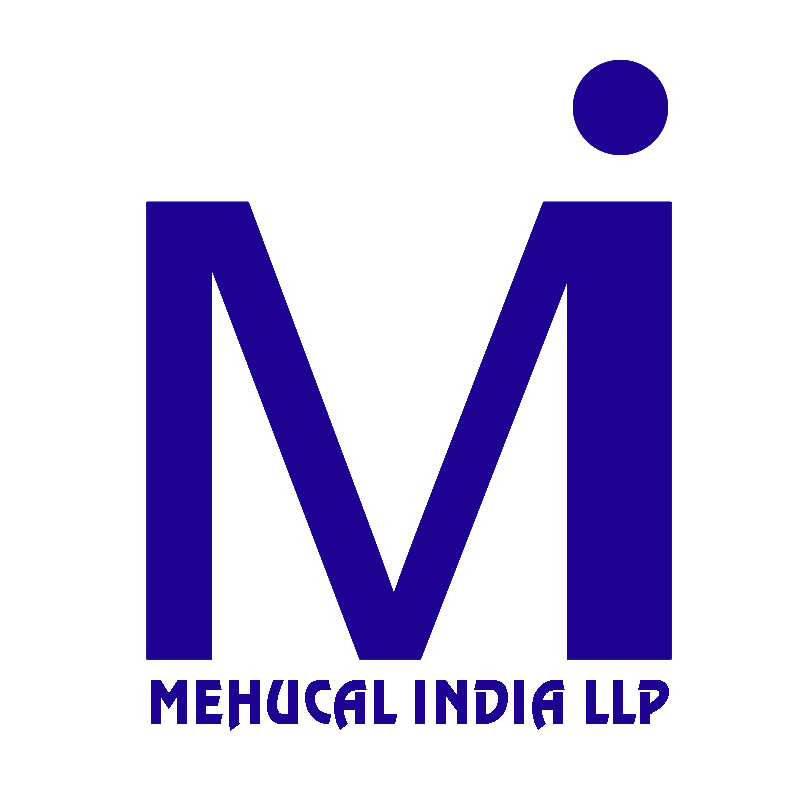
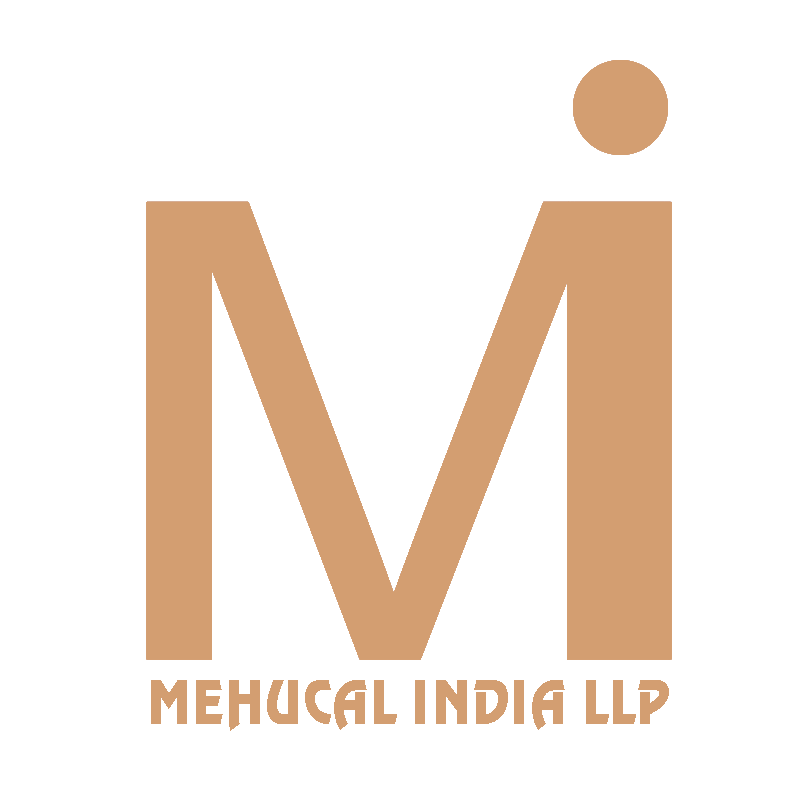
changed styling

Changed region(s): [[0.183, 0.244, 0.8539, 0.9454], [0.7014, 0.061, 0.8539, 0.2135]]

diff --git a/src/components/Contact/Contact.css b/src/components/Contact/Contact.css
@@ -8,13 +8,13 @@
 }
 
 .contact-col {
-    color: black;
+    color: #4e3426;
     flex: 1; /* Ensuring both columns take up equal space */
     max-width: 45%; /* Ensuring they don't exceed half the container */
 }
 
 .contact-col h3 {
-    color: #a28c21;
+    color: #4e3426;
     font-weight: 500;
     font-size: 25px;
     display: flex;
@@ -56,9 +56,9 @@
 .contact form input, .contact form textarea {
     display: block;
     width: 100%;
-    background: #a28c21; /* Changing background color for better readability */
+    background: #ff770019; /* Changing background color for better readability */
     padding: 15px;
-    border: 1px solid #ccc; /* Adding border for better visibility */
+    border: 1px solid #4e3426; /* Adding border for better visibility */
     outline: none;
     margin-bottom: 15px; /* Reducing margin for better spacing */
     margin-top: 5px;
@@ -67,8 +67,8 @@
 }
 
 .contact form button {
-    background: #a28c21;
-    color: white;
+    background: #4e3426;
+    color: 4e3426;
     padding: 15px;
     border: none;
     cursor: pointer;
@@ -77,14 +77,14 @@
 }
 
 .contact form button:hover {
-    background: #a28c21;
+    background: #4e3426;
 }
 
 .contact-col span {
     display: block;
     margin: 15px 0;
     font-weight: bold;
-    color: green;
+    color: 4e3426;
 }
 
 @media screen and (max-width: 768px) {

diff --git a/src/App.jsx b/src/App.jsx
@@ -9,8 +9,6 @@ import Hero from './components/Hero/Hero';
 import Navbar from './components/Navbar/Navbar';
 import Products from './components/Products/Products';
 import Title from './components/Title/Title';
-import Cards from './components/Cards/Cards';
-import cardsData from '../src/data/cards';
 
 const App = () => {
   return (
@@ -22,16 +20,10 @@ const App = () => {
       <Title subTitle='Our Products' title='Feel free to reach us' />
       <span><br/><br/></span>
       <Products />
-      {cardsData.map((card, index) => (
-        <Cards
-          key={index}
-          image={card.image}
-          title={card.title}
-        />
-      ))}
+      
       <Facility />
       <div className=''>
-        <Title subTitle='Our Clients' title='add one small line' />
+        <Title subTitle='Our Clients' title='Exceeding the expectations, consistently' />
         <Clients />
       </div>
       <Title subTitle='Contact us' title='Feel free to reach us' />

diff --git a/src/components/Facility/Facility.css b/src/components/Facility/Facility.css
@@ -13,7 +13,7 @@
 }
 
 .facility-right {
-    flex-basis: 40%; /* Image on the right */
+    flex-basis: 33%; /* Image on the right */
 }
 
 .facility-img {
@@ -24,18 +24,18 @@
 .facility h3 {
     font-weight: 600;
     font-size: 30px;
-    color: #39396e;
+    color: #4e3426;
 }
 
 .facility h2 {
     font-size: 20px;
-    color: #a28c21; /* Dark text color */
+    color: #d39e71; /* Dark text color */
     margin: 10px 0;
     max-width: 400px;
 }
 
 .facility p {
-    color: #39396e; /* Slightly darker text color for better contrast */
+    color: #4e3426; /* Slightly darker text color for better contrast */
     margin-bottom: 22px;
     font-size: 17px;
 }

diff --git a/src/components/About/About.css b/src/components/About/About.css
@@ -25,18 +25,18 @@
 .about h3 {
     font-weight: 600;
     font-size: 30px;
-    color: #39396e; /* Dark text color */
+    color: #4e3426; /* Dark text color */
 }
 
 .about h2 {
     font-size: 20px;
-    color: #a28c21; /* Dark text color */
+    color: #d39e71; /* Dark text color */
     margin: 10px 0;
     max-width: 400px;
 }
 
 .about p {
-    color: #39396e; /* Slightly darker text color for better contrast */
+    color: #4e3426; /* Slightly darker text color for better contrast */
     margin-bottom: 22px;
     font-size: 17px;
 }

diff --git a/src/components/Products/Products.jsx b/src/components/Products/Products.jsx
@@ -6,9 +6,7 @@ const Products = () => {
     return (
         <div className="Products" id="programs">
             {/* Header */}
-            <div className="products-header">
-                Our Products
-            </div>
+            <span></span>
             <div className="products-categories">
                 {productsData.map((product, index) => (
                     <div className="category" key={index}>

diff --git a/src/components/Title/Title.css b/src/components/Title/Title.css
@@ -1,14 +1,14 @@
 .title{
     text-align: center;
-    color: #a28c21;
-    font-size: 15px;
+    color: #4e3426;
+    font-size: 20px;
     font-weight: 600;
     text-transform: none;
     margin: 70px 150px 0px 150px;
 }
 .title h2{
     font-size: 34px;
-    color: #39396e;
+    color: #d39e71;
     margin-top: 5px;
     text-transform: uppercase;
     margin: 70px 40px 10px 30px;

diff --git a/src/components/Footer/Footer.css b/src/components/Footer/Footer.css
@@ -3,9 +3,9 @@
     display: flex;
     align-items: center;
     justify-content: space-between;
-    border-top: 1px solid #39396e;
+    border-top: 1px solid #4e3426;
     padding: 15px 0px;
-    color: #39396e;
+    color: #4e3426;
 }
 
 .footer ul li{

diff --git a/src/components/Hero/Hero.css b/src/components/Hero/Hero.css
@@ -21,7 +21,7 @@
     height: 100%;
     background: url('../../assets/bg1.jpg');
     background-size: cover;
-    filter: brightness(25%);
+    filter: brightness(45%);
     position: absolute;
     z-index: 0;
 }
